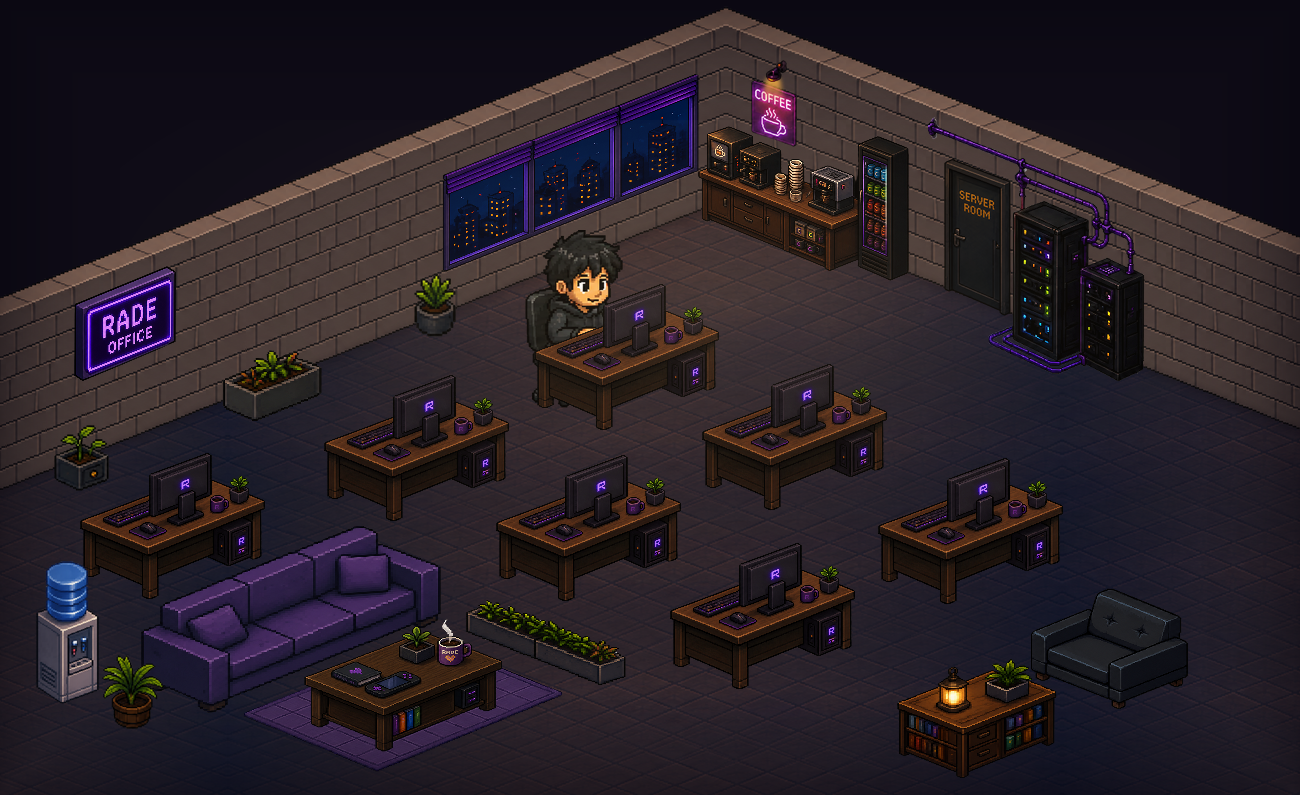
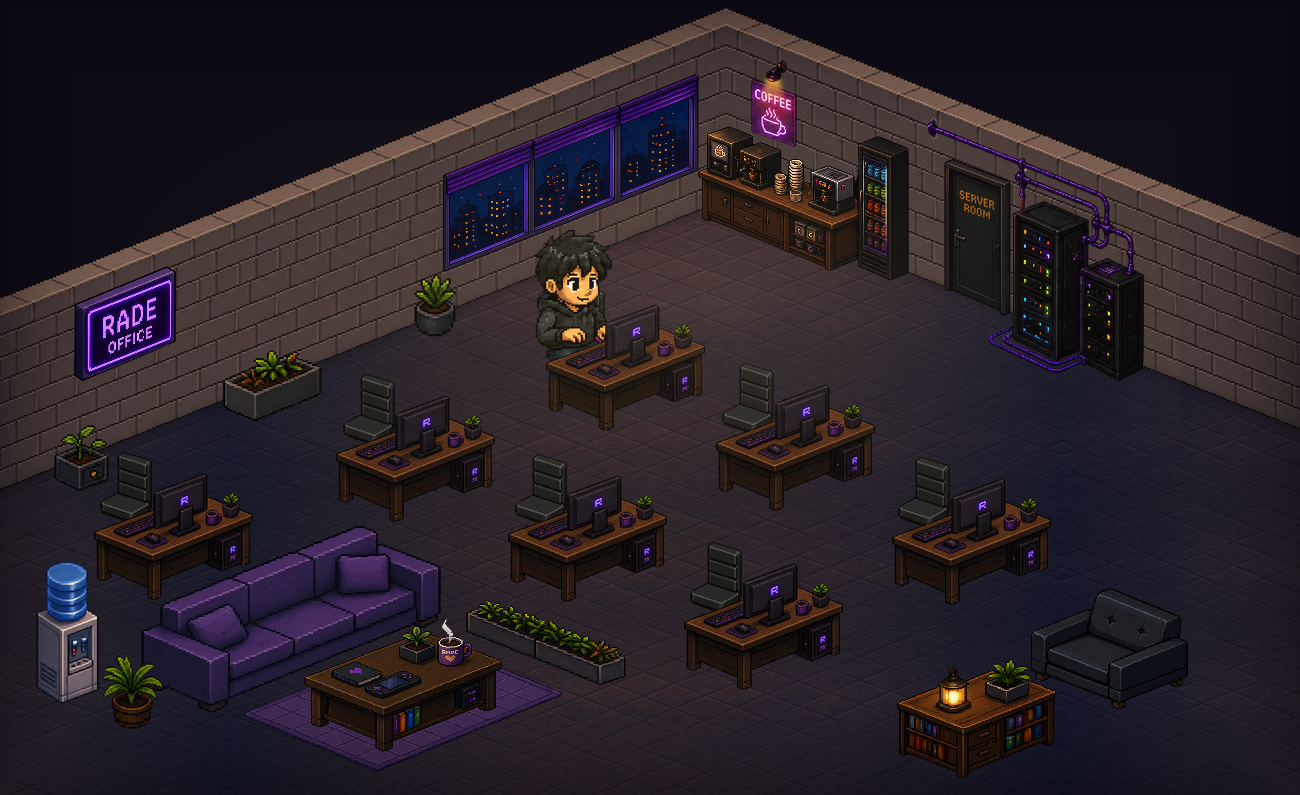
Shrink the desk so hands land on the keyboard, and sit deeper into the sofa
Hands can never be drawn over a keyboard from behind the desk: the keyboard is
in front of the tabletop's back edge and the person is behind it, so whatever
clears the edge is above the keyboard by construction. Making the desk 14 %
smaller closes that gap instead — the back edge drops, the hands stay, and they
meet at the keys.

diff --git a/bake_scene.py b/bake_scene.py
@@ -38,7 +38,7 @@ WALL = 54                      # and further off the back walls: the wall is par
                                # of the backdrop, so anyone who gets that high is
                                # drawn on top of it and appears to stand in the
                                # window
-CHAIR_AT = (-52, -60)          # where a desk's chair stands, relative to the desk
+CHAIR_AT = (-46, -46)          # where a desk's chair stands, relative to the desk
 
 
 def _meta():
@@ -138,7 +138,7 @@ def spots(items, m):
             # only floor next to it is off its right arm: seat him on the right
             # cushion too, or he crosses the whole sofa in one frame
             out["sofa"] = {"walk": {"x": x + 176, "y": y + 6},
-                           "sit": {"x": x + 40, "y": y - 46, "sortY": y + 2,
+                           "sit": {"x": x + 34, "y": y - 58, "sortY": y + 2,
                                    "z": it.get("z", 0)}}
         elif a.startswith("coffee") and out["coffee"] is None:
             # `coffee-frame` is the neon sign on the wall, not the counter: stand
